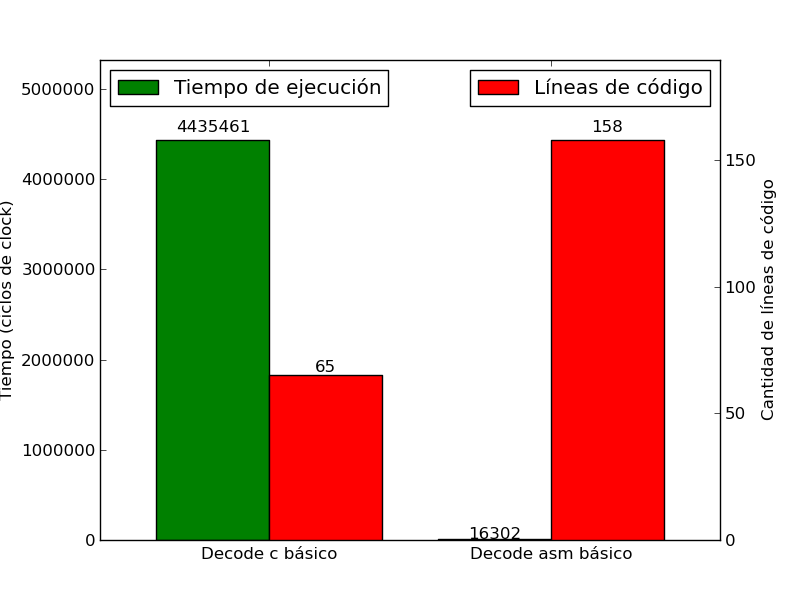
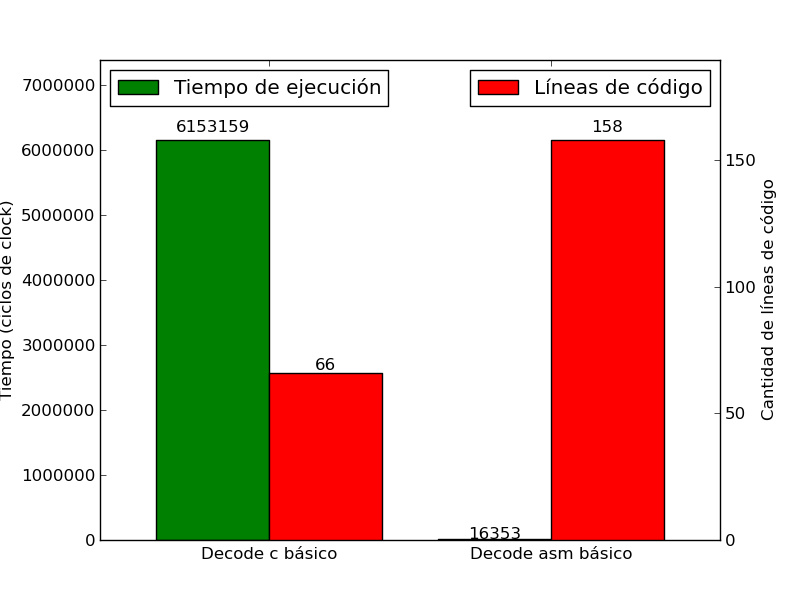
Graficador mas avanzado

diff --git a/solucion/plot/graficador.py b/solucion/plot/graficador.py
@@ -32,20 +32,14 @@ class Plotter:
 		f = open(rutaTiempo, "r")
 		for i in range(4): f.readline()
 		list = eval(f.readline().replace("]\b",""))
-		time = 0
+		self.fractions.append({})
+
+		for i in list[0].keys():
+			self.fractions[-1][i.split("_")[0]]=0
+
 		for i in list:
-			time = time + (i["despues"]-i["antes"])
-			print(time) #sacar esto después
-			if len(i)>2:
-				size = len(i)
-				size = size/3
-				fractions = []
-				for i in range(1,size+1):
-					fractions[i["break_{0}_name".format(i)]]=i["break_{0}_after".format(i)]-i["break_{0}_before".format(i)]
-
-
-
-		self.times.append(time)
+			for key in self.fractions[-1]:
+				self.fractions[-1][key]+=(i[key+"_after"]-i[key+"_before"])
 
 		f = open(rutaCodigo, "r")
 		lines = 0
@@ -53,12 +47,16 @@ class Plotter:
 			lines+=1
 		self.lines.append(lines)
 
+
+
 	def plotBars(self, rutaSalida):
+		plt.clf()
 		fig = plt.figure()
 		ax = fig.add_subplot(111)
 		indexs = np.arange(len(self.filtros))
-		barsTimes = ax.bar(indexs, self.times, self.width, color="g", label = "Tiempo de ejecución")
-		plt.ylim(0,max(self.times)*1.2)
+		times = [i["total"] for i in self.fractions]
+		barsTimes = ax.bar(indexs, times, self.width, color="g", label = "Tiempo de ejecución")
+		plt.ylim(0,max(times)*1.2)
 		ax.set_ylabel( "Tiempo (ciclos de clock)")
 		autolabel(barsTimes,ax)
 		plt.legend(loc = 2)
@@ -73,7 +71,22 @@ class Plotter:
 		plt.savefig(rutaSalida)
 
 	def plotPie(self, rutaSalida):
-		pass
+		plt.clf()
+
+		labels = []
+		sizes = []
+		for i in self.fractions:
+			keys = i.keys()
+			labels.append(keys)
+			coso = []
+			for j in keys:
+				coso.append(i[j])
+			sizes.append(coso)
+				
+
+			
+		plt.pie(sizes[0], labels = labels[0])
+		plt.savefig(rutaSalida)
 		
 
 
@@ -83,4 +96,6 @@ if __name__=="__main__":
 	plotter = Plotter()
 	plotter.agregarFiltro("Decode", "c básico", "../src/decode_c.c.salida", "../src/decode_c.c")
 	plotter.agregarFiltro("Decode", "asm básico", "../src/decode_asm.asm.salida", "../src/decode_asm.asm")
+	print(plotter.fractions)
 	plotter.plotBars("ejemplo.png")
+	plotter.plotPie("torta.png")

diff --git a/solucion/src/decode_c.c b/solucion/src/decode_c.c
@@ -1,9 +1,8 @@
-#include "tiempo.h"
-
 # define _mask_23 0x0C
 # define _mask_01 0x03
 # define _negation_mask 0x03
 
+extern unsigned long int get_timestamp();
 
 void decode_c(unsigned char* src,
               unsigned char* code,
@@ -11,9 +10,11 @@ void decode_c(unsigned char* src,
               int width,
               int height)
 {
-	TIMER_BEGIN();
+	unsigned long int total_before, total_after, comparaciones_before, comparaciones_after;
 
-	TIMER_PRINT_STATUS("antes");
+	total_before=get_timestamp();
+	
+
 
 	int j=0;// Contador para src
 	int k=0;// Contador para code. no pueden ser el mismo porque este avanza 4 veces mas lento.
@@ -30,6 +31,8 @@ void decode_c(unsigned char* src,
 			a = a & _mask_23; //Una para los bits 2 y 3
 			b = b & _mask_01; // y otra para los bits 0 y 1
 
+
+			comparaciones_before = get_timestamp();
 			if (a==0x04){ //Según el valor de a se decide que hacer.
 				b=b+1;
 				b=b & _mask_01;
@@ -42,6 +45,7 @@ void decode_c(unsigned char* src,
 			if (a== 0xc){
 				b= b ^ _negation_mask;
 			}
+			comparaciones_after = get_timestamp();
 			b = b << bit_shift; //Se mueven los bits 1 y 0 al lugar correspondiente
 			partial_result = partial_result + b; //se acumula el cacho de biy en partial result
 			j++; //Se avanza el contador de src.
@@ -56,10 +60,7 @@ void decode_c(unsigned char* src,
 
 
 	
-	TIMER_PRINT_STATUS("despues");
+	total_after=get_timestamp();
 
-	TIMER_END()
-
-
-
+	printf("[{'total_before':%lu, 'total_after':%lu, 'comparaciones_before':%lu, 'comparaciones_after':%lu}]\n", total_before, total_after,comparaciones_before, comparaciones_after);
 }
